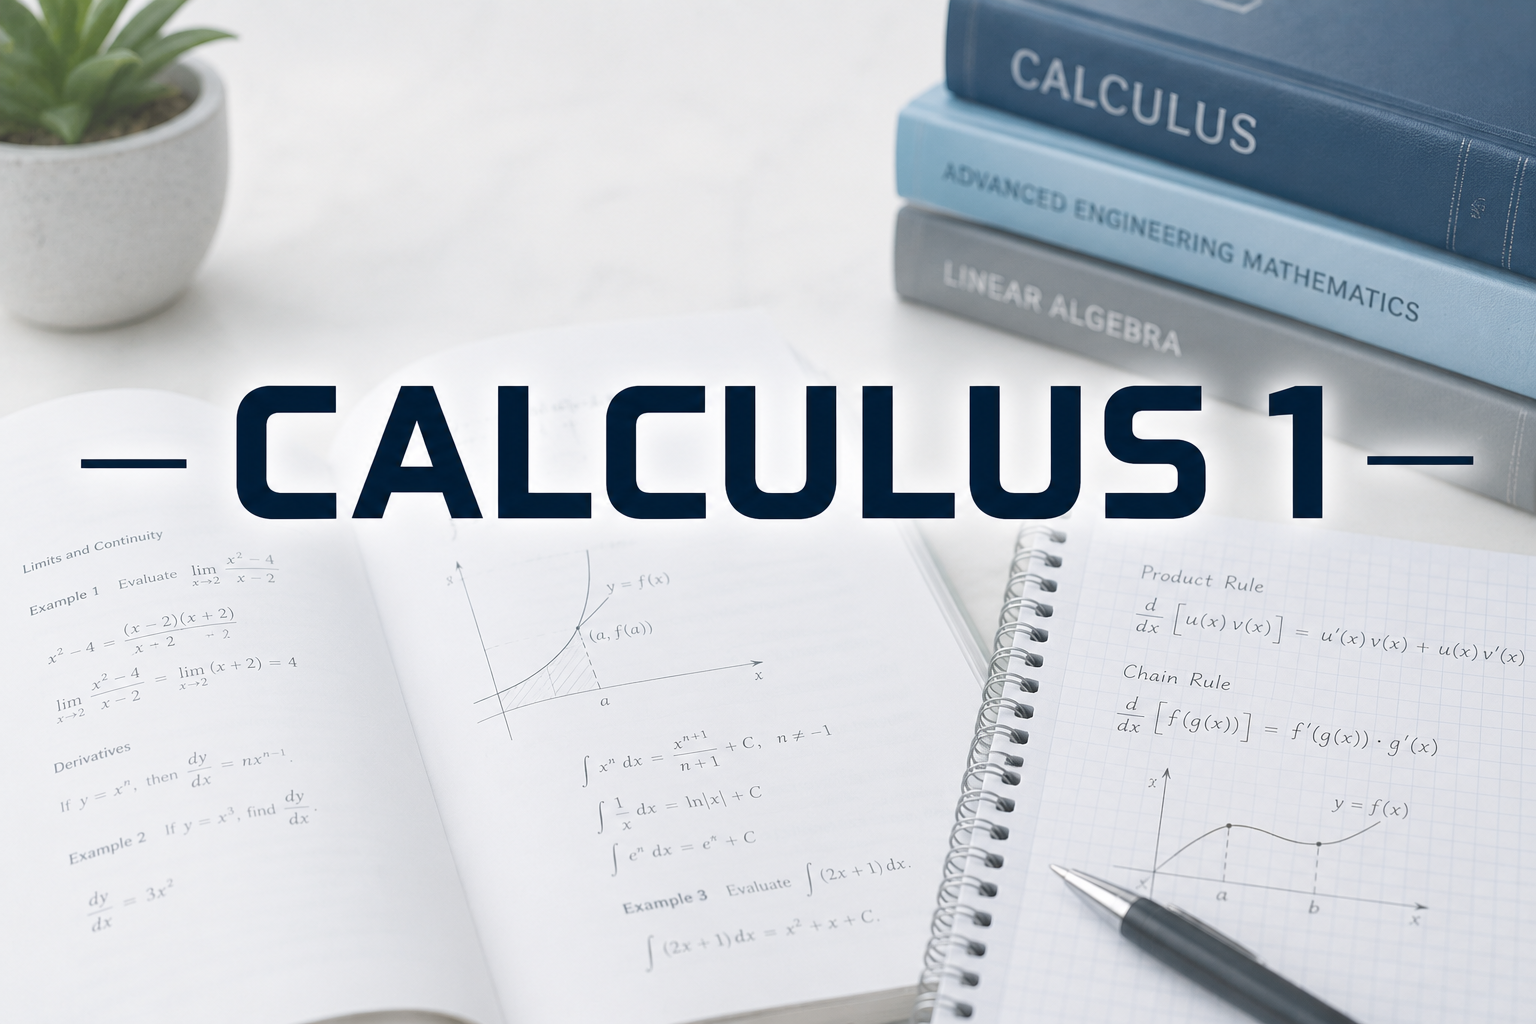
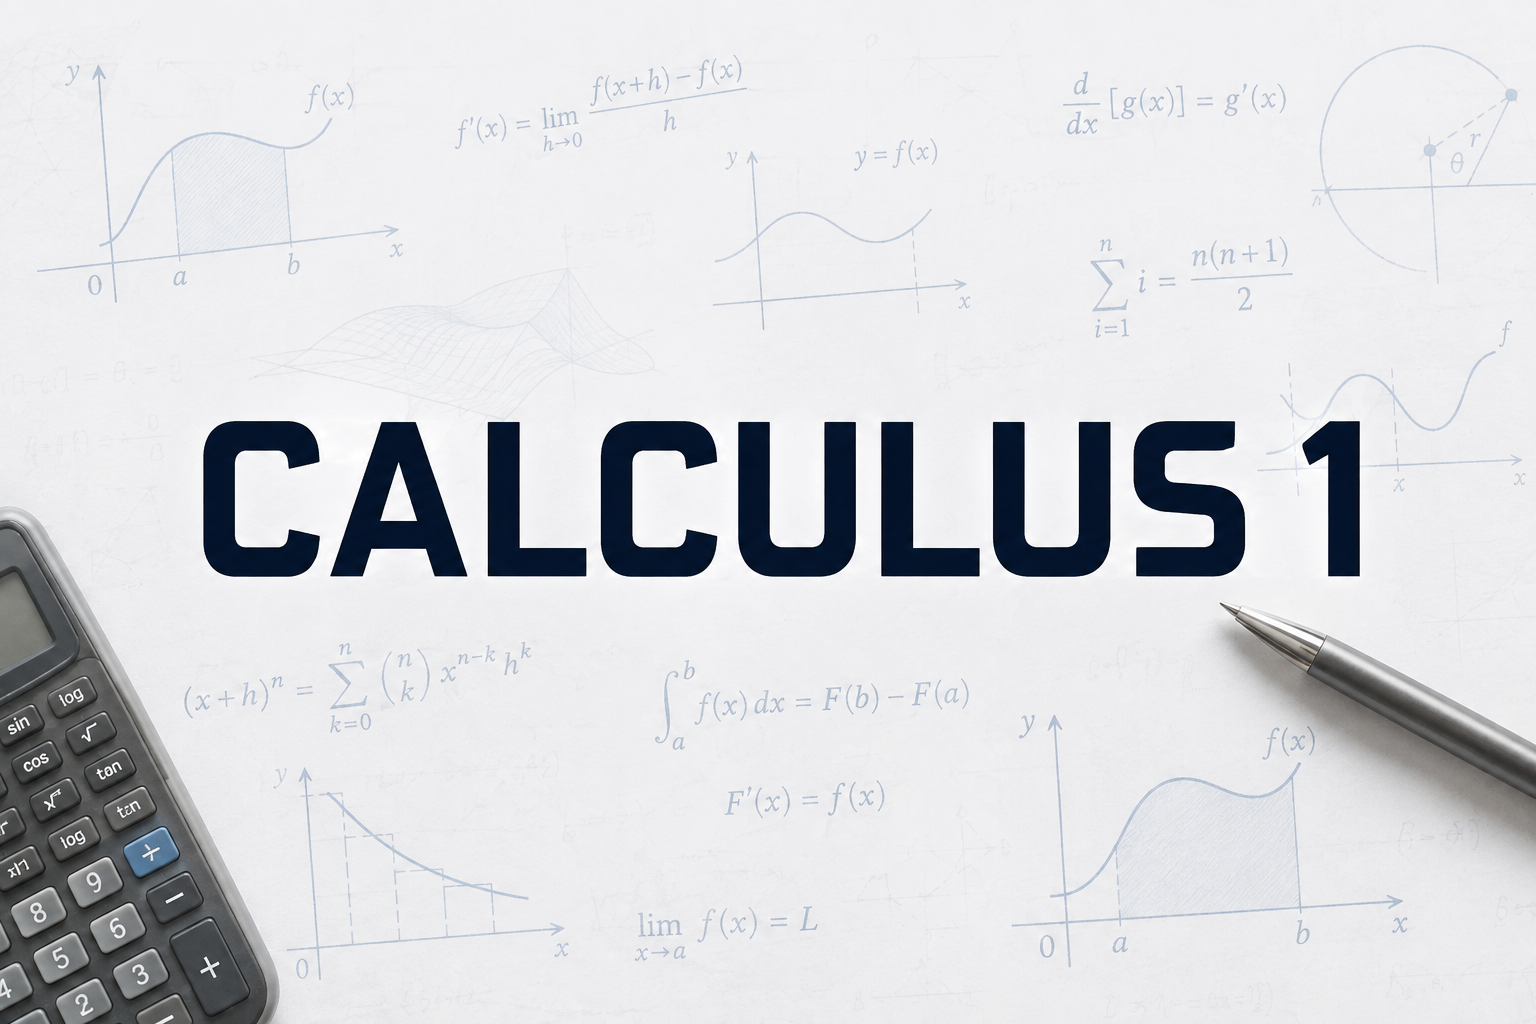
Added preview images for all cards

diff --git a/templates/index.html b/templates/index.html
@@ -29,7 +29,7 @@
   <div>
   <div class="product-card">
   <div class="preview">
-    <img src="{{ url_for('static', filename='images/Transport Engineering.png') }}" alt="TRANSPORT ENGINEERING">
+    <img src="{{ url_for('static', filename='images/Transport Engineering 1.png') }}" alt="TRANSPORT ENGINEERING">
   </div>
   <div class="product-info">
   <div class="description">
@@ -49,7 +49,7 @@
   <div>
   <div class="product-card">
   <div class="preview">
-    <img src="{{ url_for('static', filename='images/Traffic Engineering.png') }}" alt="TRAFFIC ENGINEERING">
+    <img src="{{ url_for('static', filename='images/Traffic Engineering 1.png') }}" alt="TRAFFIC ENGINEERING">
   </div>
   <div class="product-info">
   <div class="description">
@@ -212,7 +212,7 @@ BUY
 <div>
 <div class="product-card coming-soon">
 <div class="preview">
-  <img src="{{ url_for('static', filename='images/C Chemistry II.png') }}" alt="CHEMISTRY II">
+  <img src="{{ url_for('static', filename='images/Chemistry II.png') }}" alt="CHEMISTRY II">
   <span class="coming-soon-badge">Coming Soon</span>
 </div>
 <div class="product-info">

diff --git a/static/style.css b/static/style.css
@@ -189,7 +189,7 @@ h1::after {
 }
 
 .product-card:hover {
-  transform: translateY(-6px);
+  transform: translateY(0px);
   box-shadow: var(--shadow-card-hover);
 }
 
